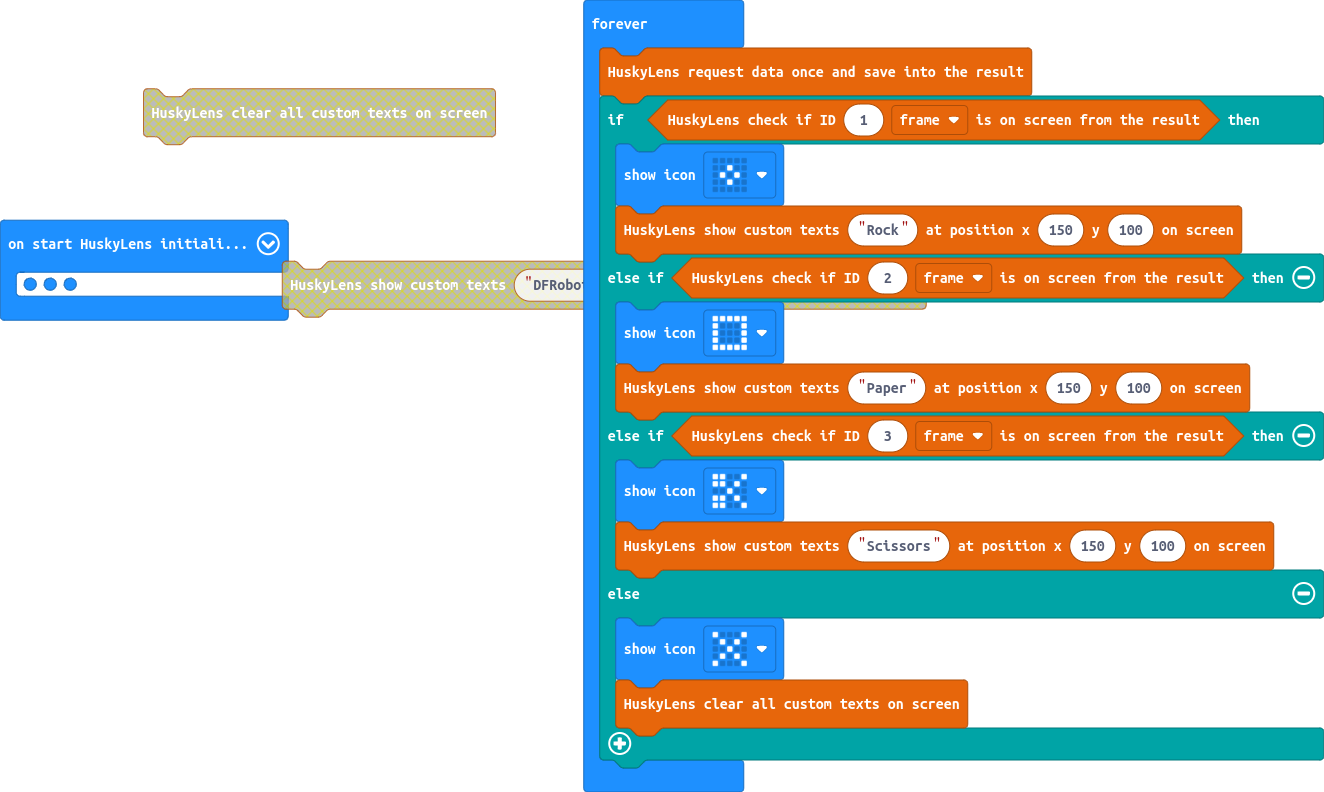
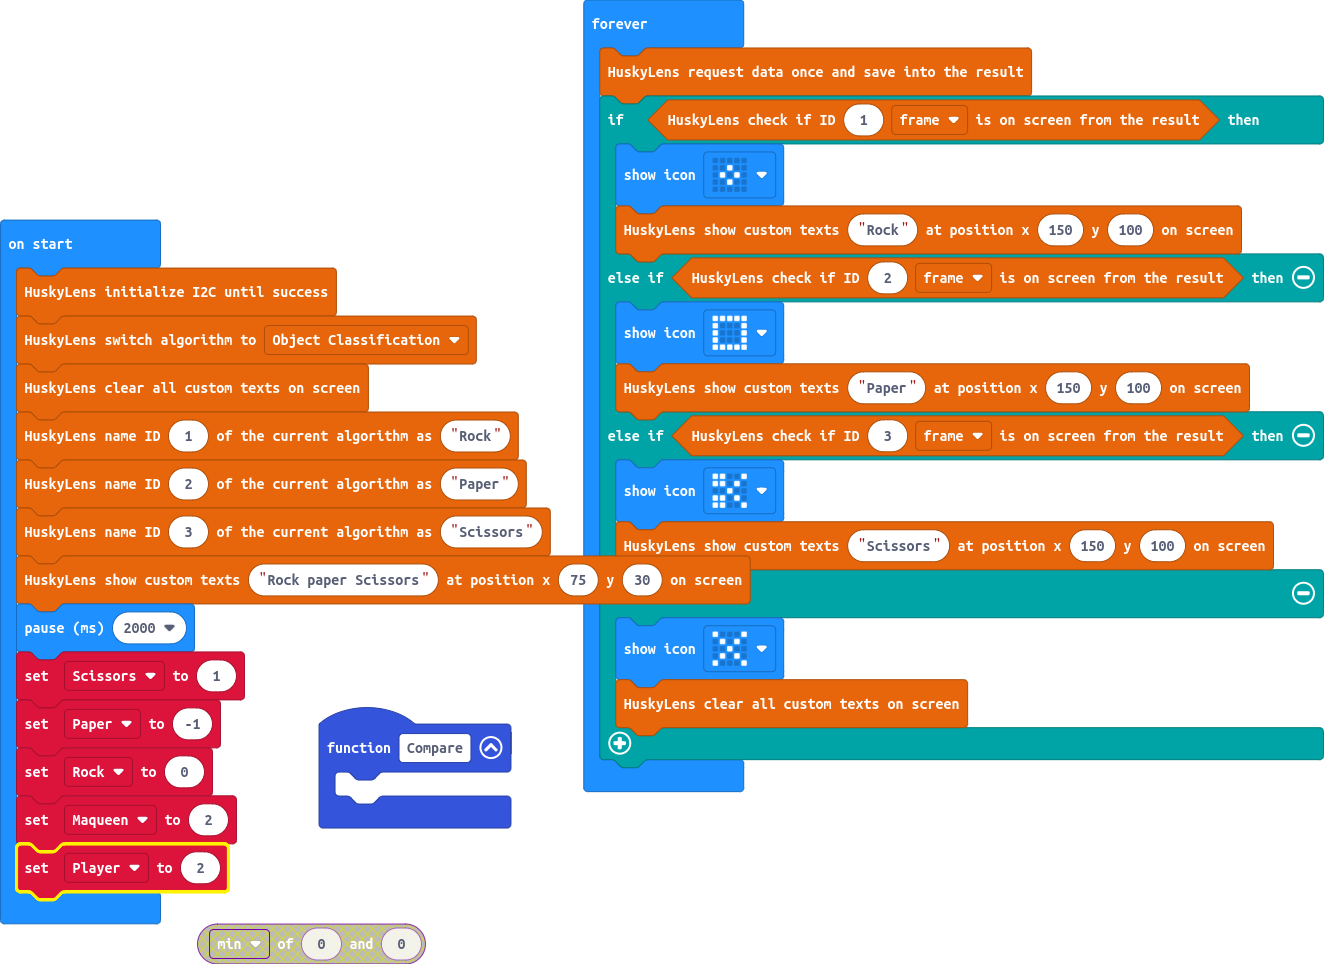
define variables

diff --git a/main.ts b/main.ts
@@ -1,9 +1,19 @@
+function Compare () {
+	
+}
 huskylens.initI2c()
 huskylens.initMode(protocolAlgorithm.OBJECTCLASSIFICATION)
+huskylens.clearOSD()
 huskylens.writeName(1, "Rock")
 huskylens.writeName(2, "Paper")
 huskylens.writeName(3, "Scissors")
-basic.showIcon(IconNames.Heart)
+huskylens.writeOSD("Rock paper Scissors", 75, 30)
+basic.pause(2000)
+let Scissors = 1
+let Paper = -1
+let Rock = 0
+let Maqueen = 2
+let Player = 2
 basic.forever(function () {
     huskylens.request()
     if (huskylens.isAppear(1, HUSKYLENSResultType_t.HUSKYLENSResultBlock)) {
